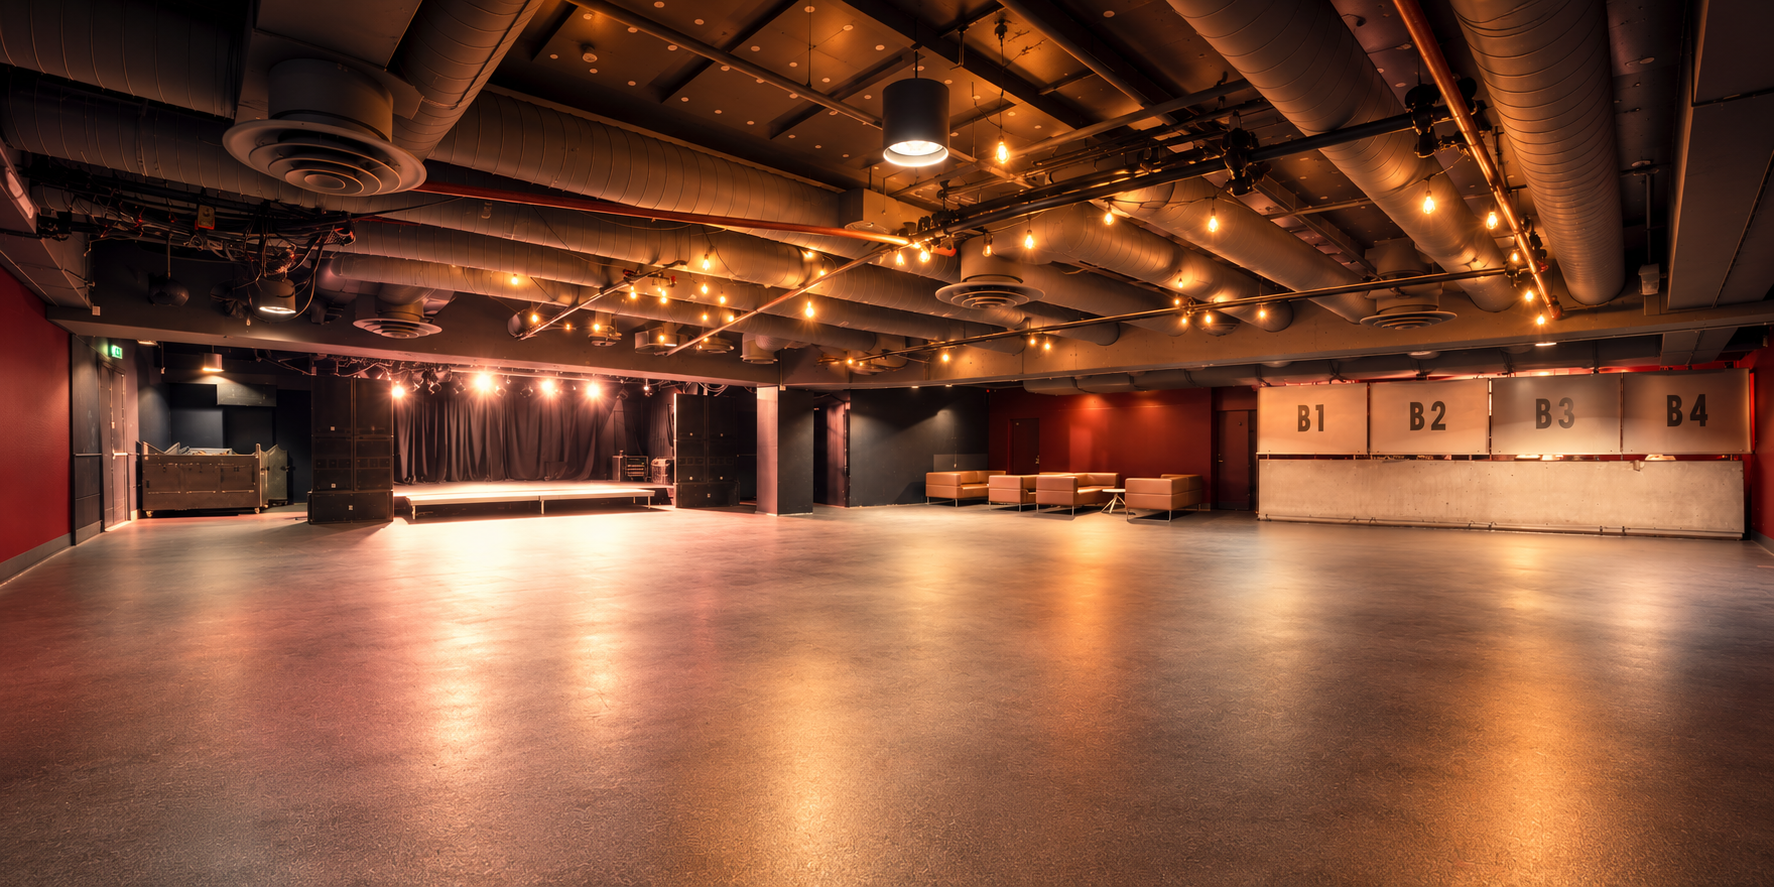
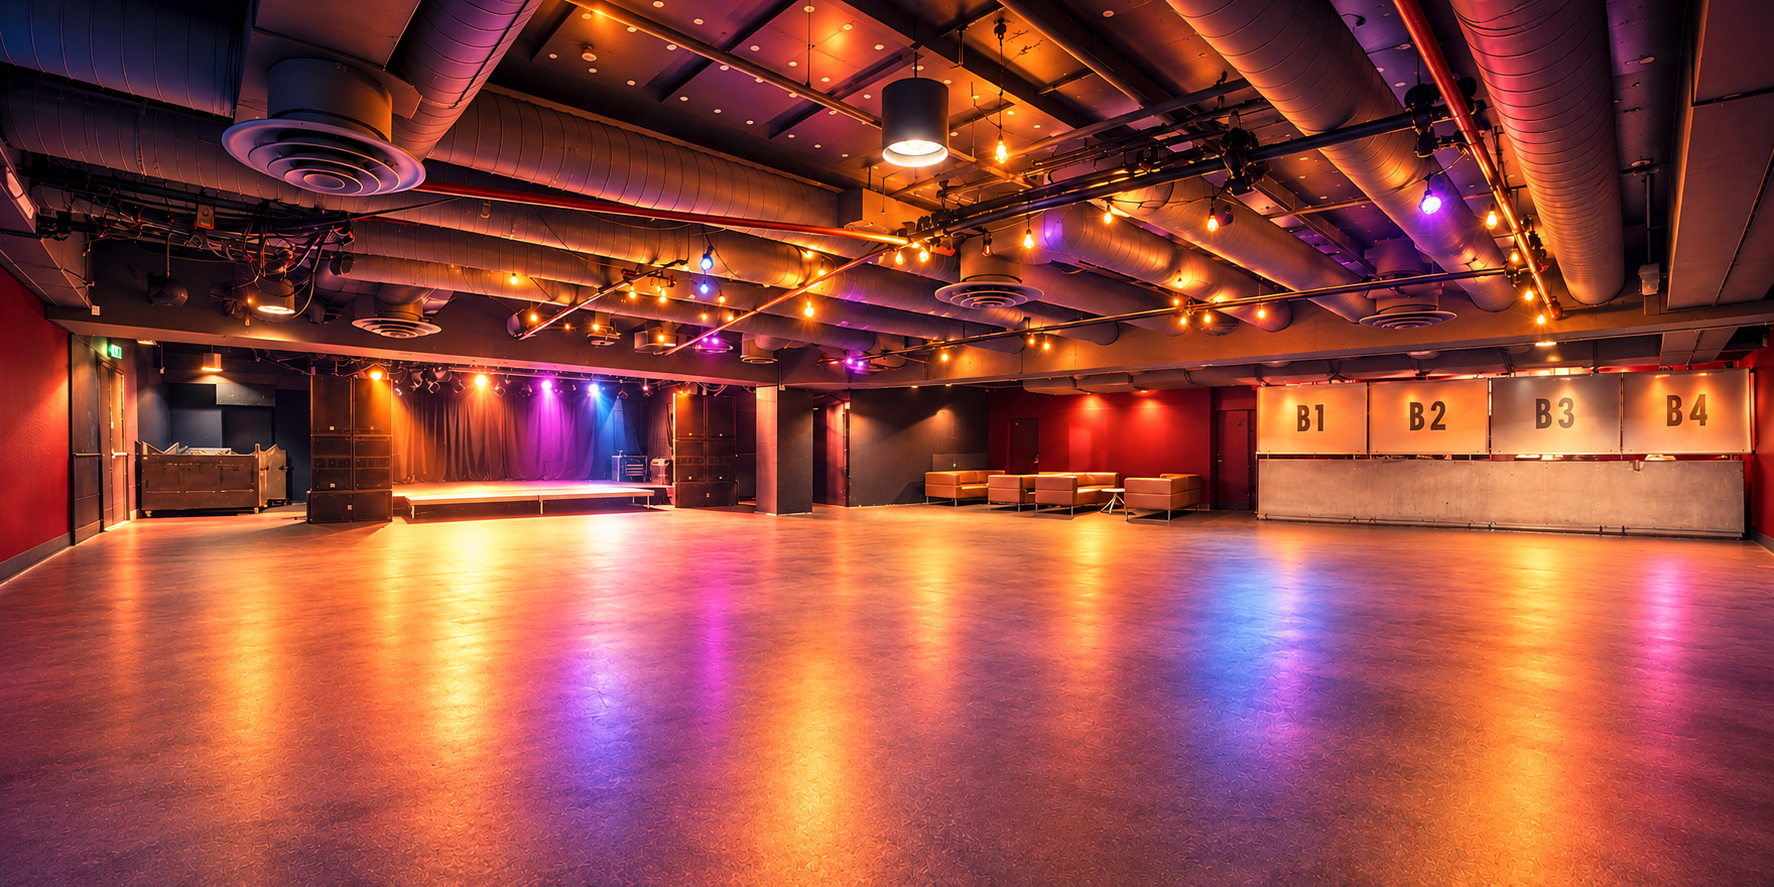
fix: Only apply new bg images to new workshops

diff --git a/src/open-workshops/main.go b/src/open-workshops/main.go
@@ -476,10 +476,6 @@ func GenerateAllWorkshops() {
 		},
 	}
 
-	for i := range workshops {
-		workshops[i].BackgroundHaze = getWorkshopBackground(workshops[i], i)
-	}
-
 	if err := os.MkdirAll(".", 0755); err != nil {
 		log.Fatalf("Failed to create output directory: %v", err)
 	}
@@ -510,15 +506,17 @@ func GenerateAllWorkshops() {
 		isAfter2026 := err == nil && date.Year() > 2026
 
 		logo := "logo.png"
+		backgroundHaze := workshop.BackgroundHaze
 		selectedTmpl := tmplClassic
 		if isAfter2026 {
 			selectedTmpl = tmpl2027
 			logo = "fun-logo.png"
+			backgroundHaze = getWorkshopBackground(workshop, i)
 		}
 
 		data := PageData{
 			PageTitle:         workshop.PageTitle,
-			BackgroundHazeURL: workshop.BackgroundHaze,
+			BackgroundHazeURL: backgroundHaze,
 			LogoPath:          logo,
 			MainTitle:         workshop.MainTitle,
 			Subtitle:          workshop.Subtitle,
